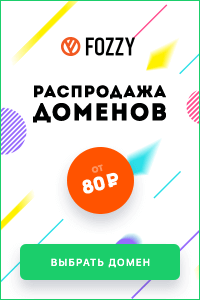
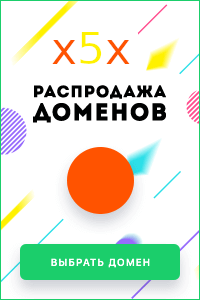
oK

Changed region(s): [[0.27, 0.09, 0.69, 0.24], [0.39, 0.54, 0.6, 0.66]]

diff --git a/index.html b/index.html
@@ -70,6 +70,7 @@
       "url" : "https://nasobe.ru/resume/resume.html"
     },
   "datePublished" : "2022-05-23",
+  "dateModified" : "2023-08-10",
   "image" : "https://amir248.github.io/domain-for-site/domain-name-sale-white-468x60-ru.png",
   "articleSection" : "The best domain, chosen with meaning.",
   "articleBody" : "By choosing a domain from fozzy, you can view all domain zones at once. And choose a domain by promotion. It is important to note that many domains ask for three-digit sums for renewal. In addition to the zone ru. This is understandable Moscow and then sold cheap. How cheap. )",
@@ -103,7 +104,7 @@
         <p id='ru'>Чем может понравиться зарубежный хостинг, так это его честность. Условия которые для любого Российского человека будет запредельным новшеством. Сравнивая с московским аналогом, можно заметить что на этом хостинге “fozzy”, честно указаны что входит в стоимость. Это шикарная служба поддержки и все как по прайсу! С московскими персонажами дела обстоят совершенно иначе. Вначале красивая презентация, а после того как Вы попались на крючок, начинается высокотехнологическое объяснения и доводы, почему ничего не работает. По версии москвы это все очень просто: “все вокруг нелюди им и так сойдет”.</p>
         <p id='en'>What you might like about foreign hosting is its honesty. Conditions that for any Russian person will be a transcendent innovation. Comparing with the Moscow counterpart, you can see that on this “fozzy” hosting, what is included in the price is honestly indicated. This is a chic support service and everything is at a price! With Moscow characters, things are completely different. At first, a beautiful presentation, and after you are hooked, high-tech explanations and arguments begin, why nothing works. According to Moscow, this is all very simple: “everyone around them is not human, and so it will do.”</p>
 
-        <a href="https://fozzy.com/aff.php?aff=16418&page=domains">
+        <a href="https://x5x.host/i/8-yyg73gj5">
           <picture>
             <img src="domain-name-sale-white-468x60-ru.png" alt="заказать домен">
           </picture>
@@ -120,7 +121,7 @@
         <h2 id='en'>The best domain, chosen with meaning.</h2>
         <p id='ru'>Благодаря выбору домена от fozzy можно сразу просмотреть все доменные зоны. И выбрать домен по акци. Важно обратить внимание что многие домены для продления просят суммы с трехзначными цифрами. Кроме зоны ру. Это и понятно москва и тут продешевила. Как дешевка. )</p>
         <p id='en'>By choosing a domain from fozzy, you can view all domain zones at once. And choose a domain by promotion. It is important to note that many domains ask for three-digit sums for renewal. In addition to the zone ru. This is understandable Moscow and then sold cheap. How cheap. )</p>
-        <a href="https://fozzy.com/aff.php?aff=16418&page=domains">
+        <a href="https://x5x.host/i/8-yyg73gj5">
           <picture>
             <img src="domain-name-sale-white-468x60-ru.png" alt="заказать домен" id='three'>
           </picture>
@@ -142,8 +143,8 @@
         <p id='ru'>То есть подождите! Надо выстраивать очередь для посещения сайта, а то видите-ли: мАасковский сервер “выдерживает” любые нагрузки, но не все сразу. По очереди! О_о</p>
         <p id='en'>That is, wait! It is necessary to line up to visit the site, otherwise you see: the Maask server “withstands” any load, but not all at once. In turn! O_o</p>
 
-        <h2 id='ru'>За что так понравился хостинг фоззи.</h2>
-        <h2 id='en'>Why did you like hosting fozzy so much.</h2>
+        <h2 id='ru'>За что так понравился хостинг x5x.</h2>
+        <h2 id='en'>Why did you like hosting x5x so much.</h2>
         <p id='ru'>Служба поддержки просто шикарная! Помогут подключить эсесейч соединение, которое по начало, не даётся для понимания. Зато благодаря поддержки, все загадки станут ясны. Подключение доменов, перенаправление, все решается быстро и качественно. Даже не верится! Около трех лет пользования хостингом фоззи: сайт ни разу не упал. Поэтому каких то остросюжетных авиакатастроф с участием инопланетян, еще не было. Зато попробовав все преимущества скорости и стабильности уже не хочется переходить на другой хостинг.  Со спокойной душой можно уверенно сказать: в этот случае московская дешевизна уже ничего не стоит.</p>
         <p id='en'>The support service is just awesome! They will help to connect an eseseych connection, which at the beginning is not given for understanding. But thanks to the support, all the mysteries will become clear. Domain connection, redirection, everything is solved quickly and efficiently. I can't even believe it! About three years of using fozzy hosting: the site never went down. Therefore, some action-packed plane crashes involving an alien</p>
         <a href="https://nasobe.ru">
@@ -168,7 +169,7 @@
 
       </article>
       <aside>
-        <a href="https://fozzy.com/aff.php?aff=16418&page=domains">
+        <a href="https://x5x.host/i/8-yyg73gj5">
           <img src="domain-name-sale-white-200x300-ru.png" alt="зарегистрировать домен">
         </a>
         <fieldset>
